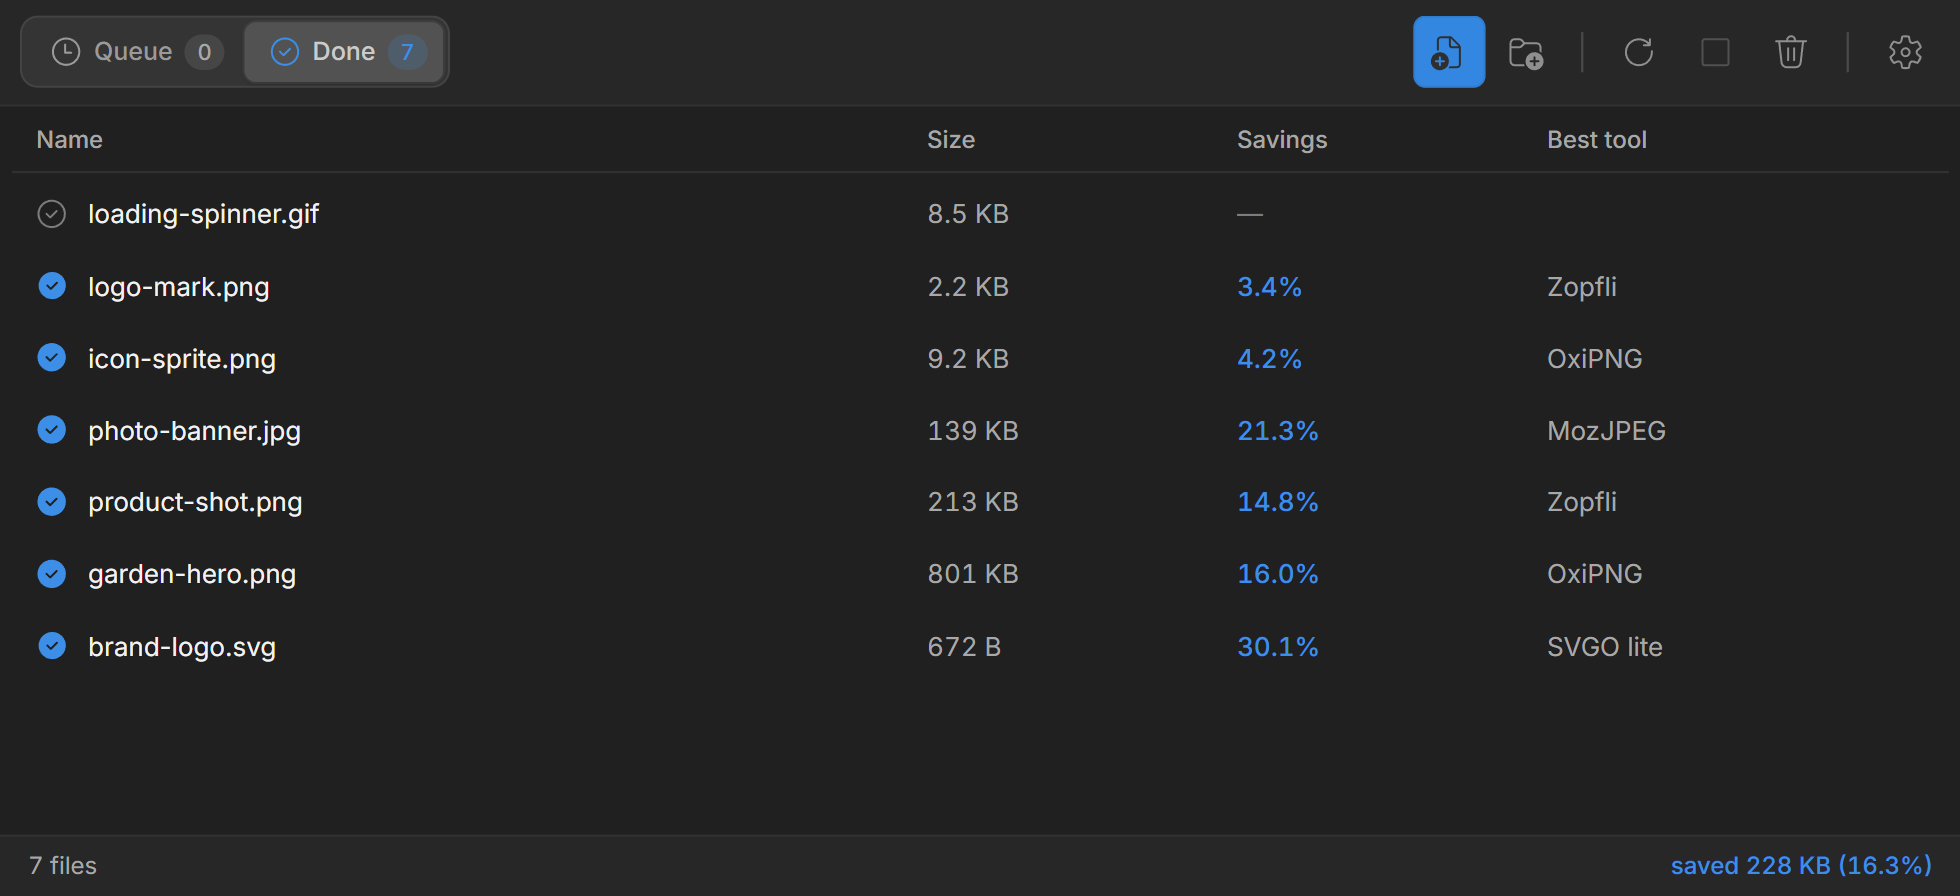
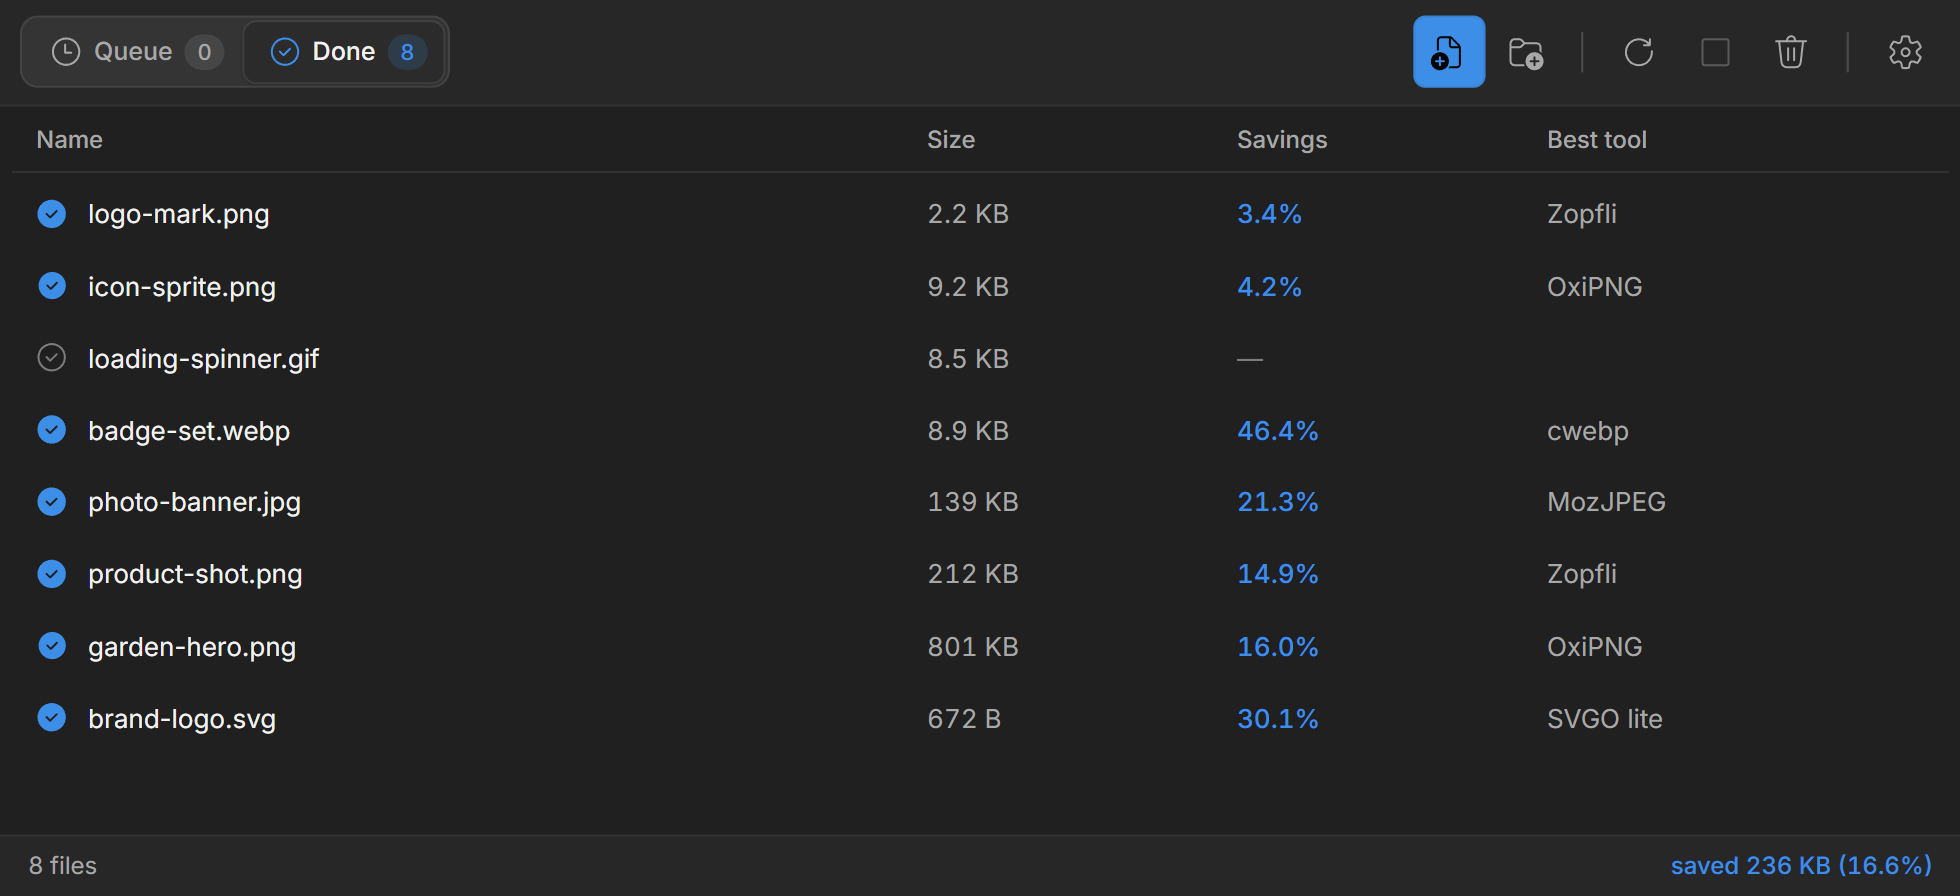
Retake the screenshots with a WebP file in the list
The results now include a lossless WebP that cwebp makes 46.4% smaller.
The five screenshots, optimized by this build, come out 36.4% smaller.

diff --git a/README.md b/README.md
@@ -93,7 +93,7 @@ with MinGW-w64 under MSYS2, and `win/` packages the app around them. See
 plans and the Zopfli size threshold were derived.
 
 The screenshots above were taken on Windows 11 from a real run, and were
-themselves optimized by this build: 36.2% smaller, Zopfli winning all five.
+themselves optimized by this build: 36.4% smaller, Zopfli winning all five.
 
 ---
 
